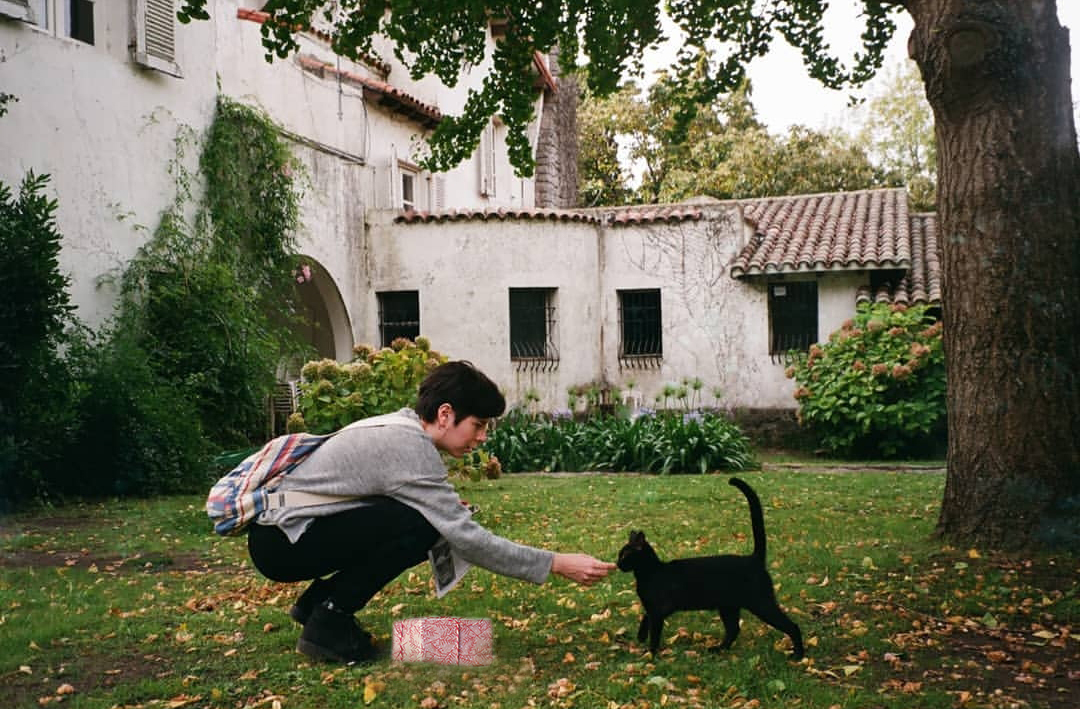
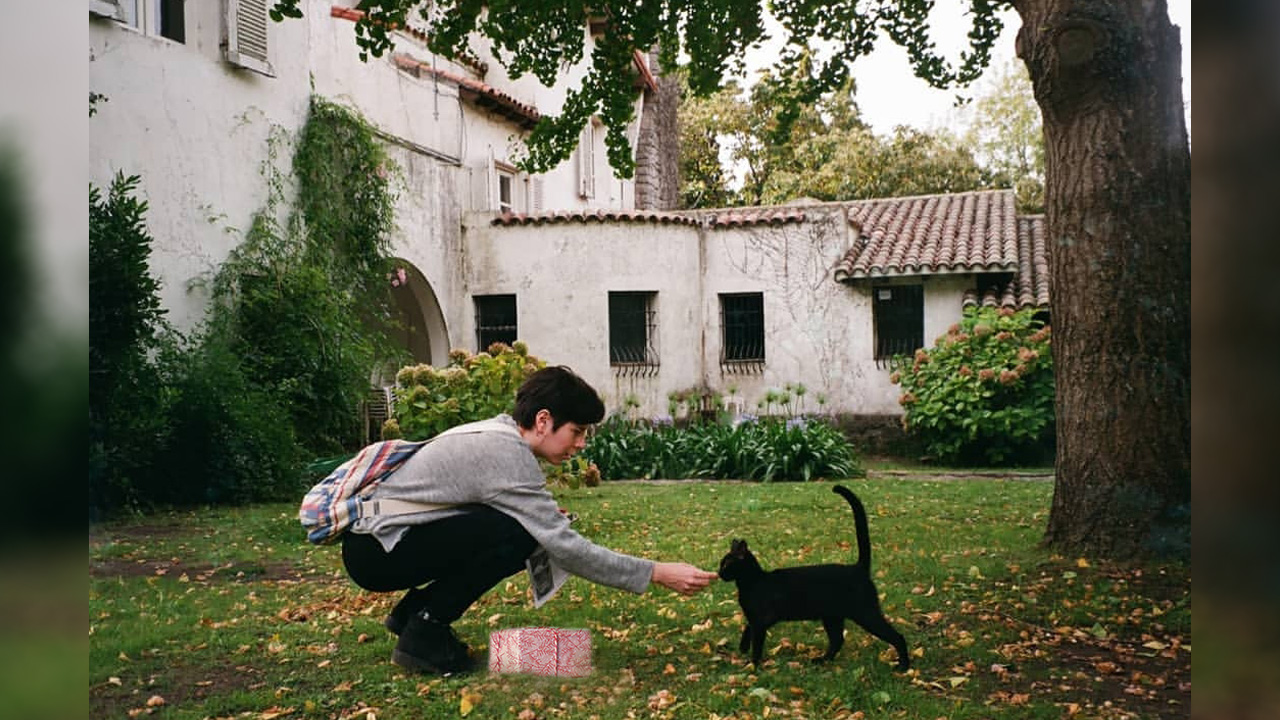
novo

diff --git a/style.css b/style.css
@@ -4,7 +4,7 @@
 body{
   display: flex;
   flex-direction: column;
-  justify-content: flex-end;
+  justify-content: center;
   align-items: center;
   font-family: Roboto, arial;
   font-size: 1em;
@@ -79,7 +79,7 @@ body{
 }
 
 #backImg{
-  width: 100%;
+  width: 100vw;
   height: auto;
 }
 .aven{
@@ -136,5 +136,5 @@ footer{
   #btnOpcion1, #btnOpcion2{
     padding: 1.5em;
   }
-  #backImg{width: 50%;}
+  #backImg{max-width: 70vw;}
 }
